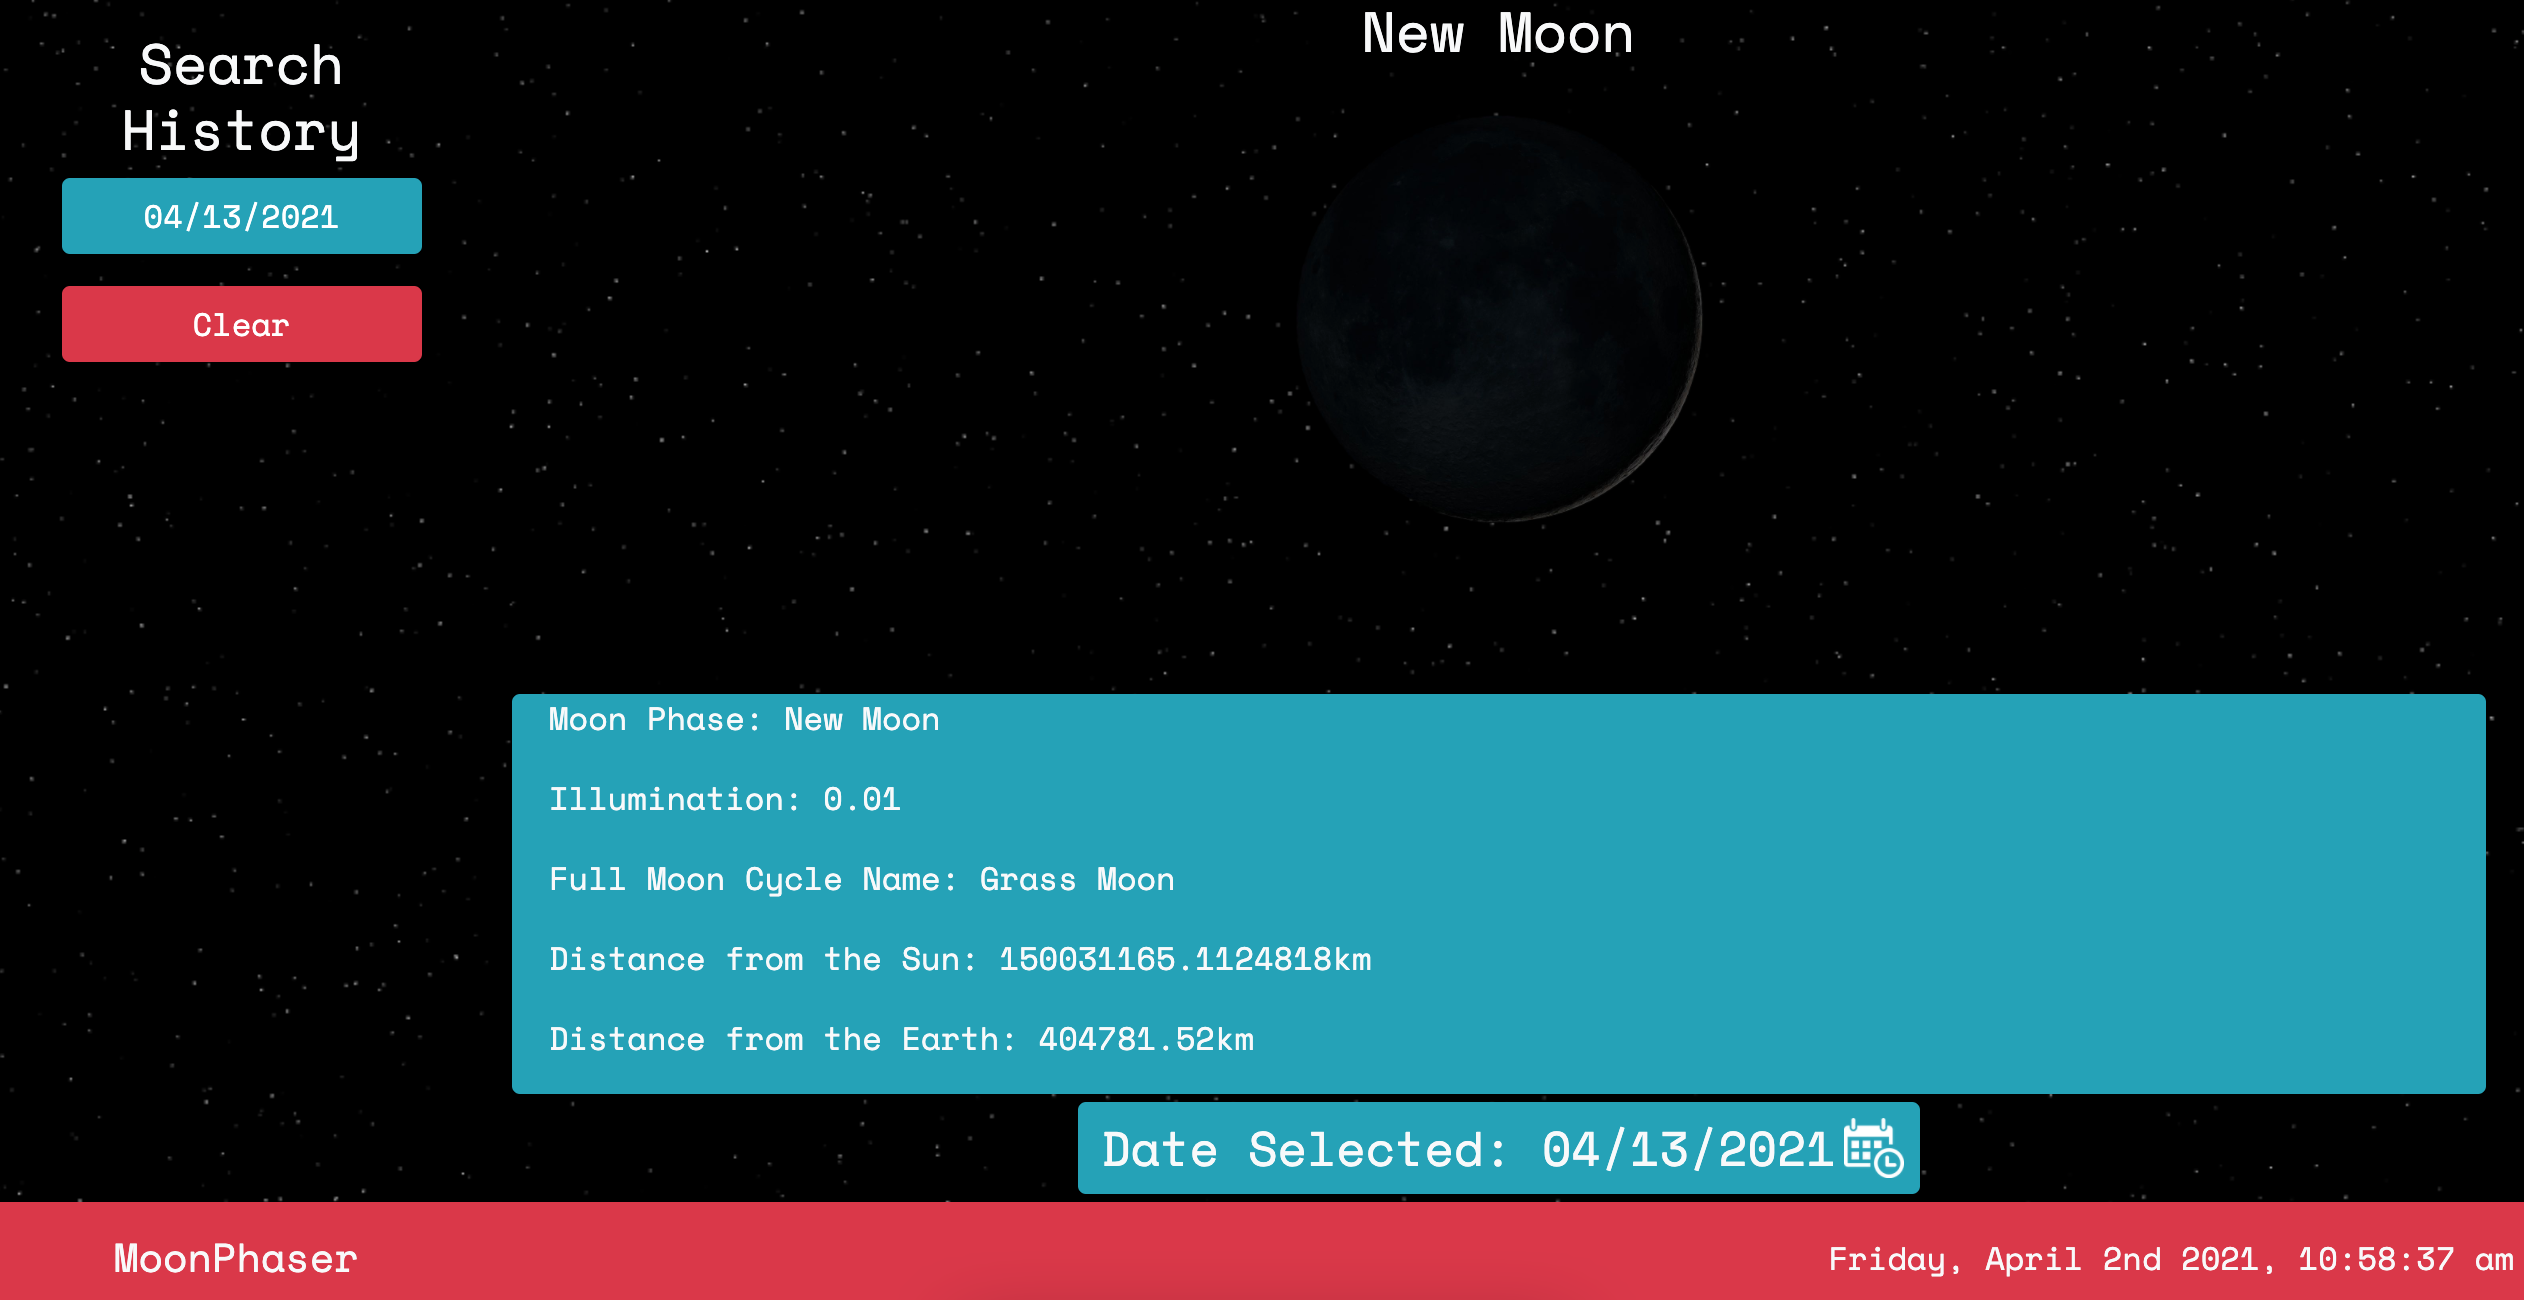
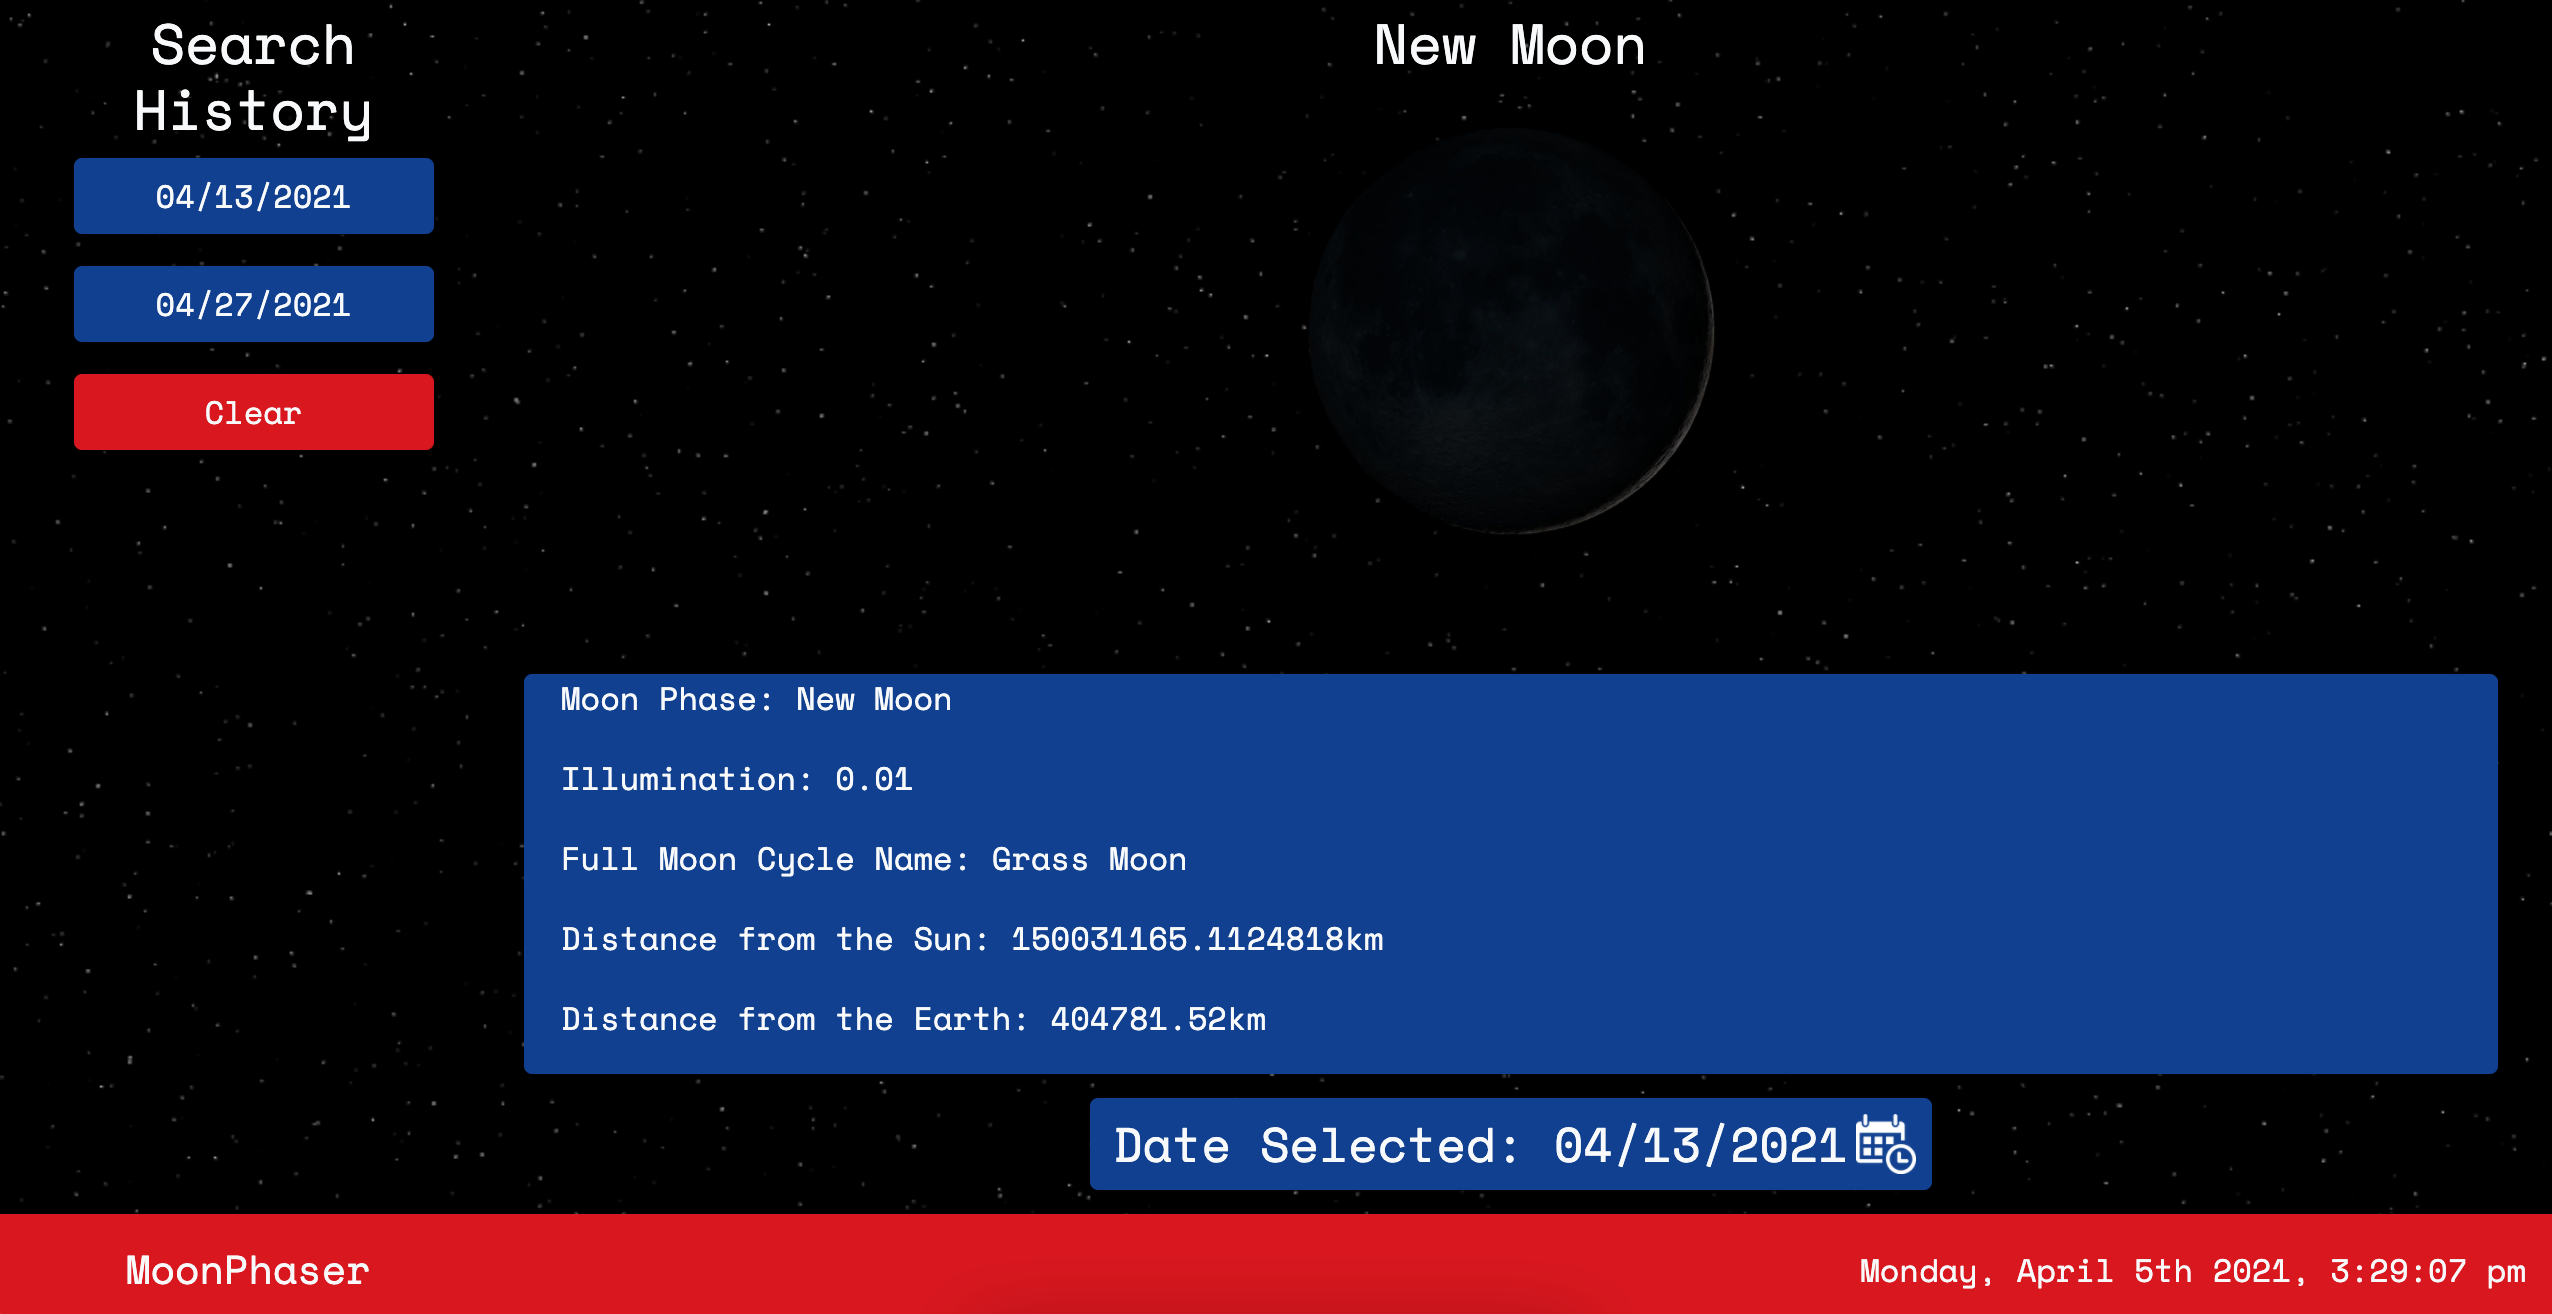
Fixed per spacing/color advice, added better quality READme

diff --git a/index.html b/index.html
@@ -26,7 +26,7 @@
                     <h3 class="text-light">Search History</h3>
                     <div class="historyButtonCon">
                     </div>
-                    <button class="btn btn-danger btn-block my-3" id="clearBtn">Clear</button>
+                    <button class="btn text-light bgRed btn-block my-3" id="clearBtn">Clear</button>
                 </div>  
         
         
@@ -45,7 +45,7 @@
 
                     </div>
                     
-                    <div class="mFacts d-none bg-info container-fluid flex-column mt-auto rounded text-light" id="factsCon">
+                    <div class="mFacts d-none bgBlue container-fluid flex-column mt-auto rounded text-light mb-1" id="factsCon">
                         
                         <div class="row justify-content-start ml-1">
                             <p id="factPhase"></p>
@@ -69,7 +69,7 @@
                         
                     </div>
 
-                    <div class="w-auto p-2 bg-info container-fluid d-flex mt-1 justify-content-between align-items-center rounded">
+                    <div class="w-auto p-2 bgBlue container-fluid d-flex mt-2 mb-2 justify-content-between align-items-center rounded">
                         
                         <div class="row text-light mx-1">
                             <h4 class="my-auto" id="dateSelected"></h4>            
@@ -94,7 +94,7 @@
                     
         </div>
         
-        <nav class="navbar row mt-1 navbar-light text-light bg-danger">
+        <nav class="navbar row mt-1 navbar-light text-light bgRed">
         
             <a class="navbar-brand ml-5 text-light" href="#">MoonPhaser</a>
             <p class="my-auto" id="currentDay" class="lead"></p>

diff --git a/assets/script.js b/assets/script.js
@@ -60,7 +60,7 @@ function nasaAPOD() {
 
     } else {
 
-      let apodError = $(`<div class="row text-center bg-danger rounded mb-5">
+      let apodError = $(`<div class="row text-center bgRed rounded mb-5">
             <h5 class="text-light">We had trouble loading the NASA APOD media! 
             Please visit their site directly at: <a class="text-info" href="https://apod.nasa.gov/apod/astropix.html">apod.nasa.gov</a>
             </h5>
@@ -247,7 +247,7 @@ function renderSearches () {
     let dateDisp = moment.unix(dateB).format("MM/DD/YYYY");
 
 
-    dateHistBtn = $(`<button class="btn btn-info btn-block mb-3 histBtn" id="searchBtn">${dateDisp}</button>`)
+    dateHistBtn = $(`<button class="btn bgBlue text-light btn-block mb-3 histBtn" id="searchBtn">${dateDisp}</button>`)
     
     $(".historyButtonCon").append(dateHistBtn);
   }

diff --git a/assets/style.css b/assets/style.css
@@ -73,3 +73,11 @@
             height: 30px;
             
         }
+
+        .bgBlue{
+            background-color: #0B3D91; 
+        }
+
+        .bgRed{
+            background-color: #db1212;
+        }

diff --git a/README.md b/README.md
@@ -2,7 +2,7 @@
 
 ## About
 
-   
+   MoonPhaser was a collaborative project intent on using moon phase data from an API as well as information from the many aviable NASA APIs to design a web application aimed at piquing interest in the constantly changing information from space. After finding the [farmsense API](https://www.farmsense.net/). This refined our User Story to designing a site that allowed a user to view moon phase informtion for any given day they might input- and to record recently searched dates in order to more easily compare similar dates across time, such as a birthday or anniversary. We decided to generate the NASA Astronomy picture of the Day from [its respective API](https://github.com/nasa/apod-api) upon page load as it was the most astronomy beginner friendly API of the many APIs NASA offers. We will also be having a NASA API incorporated into our page as well.
   
   The site may be accessed at: [its GitHub page url](https://anth8nyc.github.io/MoonPhases/)
 
